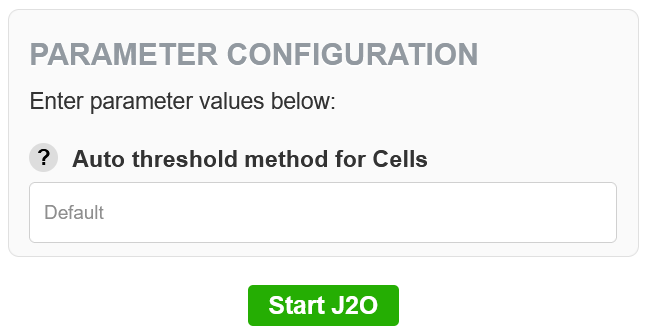
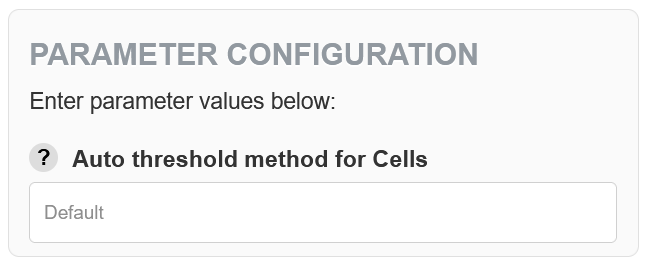
Added separate section for the optional settings of resource control and added GPU acceleration to the documentation. Additionally, the installation guide was updated to reflect the podman requirements.

diff --git a/Writerside/topics/Optional-settings.md b/Writerside/topics/Optional-settings.md
@@ -11,42 +11,20 @@ omero config set omero.web.jipipe.logdir "/path/to/logdir"
 ```
 
 The defined paths don't have to exist yet but will be created by the omero-web user if the permissions exist. Usually changing these should not be necessary. However, if you are experiencing permission errors or want to move the directories for any other reason you can do so. Remember to restart OMERO.web to apply those changes by running:
-```bash
-omero web restart
-```
+
+> Changing these settings requires a restart of OMERO web.
+{style="warning"}
 
 ## Resource management
-A major concern system administrators have when hearing about J2O is that using the database server for processing will eat up resources needed to facilitate the database operation. To prevent that, J2O offers system administrators some optional settings to limit the amount of RAM and CPU cores per workflow execution. Additionally, running the Celery worker with a concurrency flag limits the amount of parallel running tasks. Combined, these options can precisely control the resources that will stay untouched and available for the operation of your database. At a maximum, J2O will consume resources equal to the number of concurrent tasks times the set limits per task.
+A major concern system administrators have when hearing about J2O is that using the database server for processing will eat up resources needed to facilitate the database operation. To prevent that, J2O offers system administrators optional settings to control the resources used per workflow execution. This includes:
 
-### CPU usage
-The CPU usage needs to be limited using the podman options for cpu_period and cpu_quota. Linux system don't support giving the number of CPU cores directly. Instead, the number of available CPUs is the cpu_period divided by the cpu_quota. 
+- [](CPU-usage.md)
+- [](RAM-usage.md)
+- [](Task-concurrency.md)
+- [](GPU-acceleration.md)
 
-#### CPU period
-The CPU period determines the length of the CPU scheduling window in µs. Per default, the scheduling time is set to be 100000 (100ms). If you would like to change that value, use the corresponding OMERO config command. For example, to set the CPU period to 100ms:
 
-```bash
-omero config set omero.web.jipipe.cpu_period 100000
-```
+Combined, these options can precisely control the resources that will stay untouched and available for the operation of your database. At a maximum, J2O will consume resources equal to the number of concurrent tasks times the set limits per task.
 
-#### CPU quota
-The CPU quota determines how much CPU time a process can use in the given CPU period. Per default, this will be set to 200000 (200ms). Together with the default 100ms CPU period, this effectively limits the CPU processing power per task to 2 CPU cores. To change the CPU quota per task, use the corresponding OMERO config command. For example, to set the CPU quota to 200ms:
-
-```bash
-omero config set omero.web.jipipe.cpu_quota 200000
-```
-
-### RAM usage
-Similar to the [CPU usage](#cpu-usage), the RAM usage per task can be limited using the podman option for mem_limit. The default value will be "8g" (8 gigabytes). The option accepts either integer values representing the memory limit in bytes or a string with a unit identification char (100000b, 1000k, 128m, 1g). If you use a string without identification char, the value is interpreted as bytes. To set the mem_limit, use the corresponding OMERO config command. For example, to set the memory limit to 8 gigabytes:
-
-```bash
-omero config set omero.web.jipipe.mem_limit "8g"
-```
-
->Be mindful how much RAM you allocate per task, since the OOM killer will terminate a task that exceeds this limit.
-
-### Task concurrency
-Per default, the Celery task queue will have a maximum of concurrently processed tasks equal to the number of CPU cores. If you want to limit the amount of concurrently running tasks and therefore the used resources, use the -c or --concurrency flag when starting the associated Celery worker. For example, to allow a maximum of 4 concurrently running task:
-
-```bash
-celery -A JIPipePlugin worker --loglevel=info -E --detach -c 4
-```
+> Changing these settings requires a restart of OMERO web and the Celery workers.
+{style="warning"}

diff --git a/Writerside/topics/ManualInstallationGuide.md b/Writerside/topics/ManualInstallationGuide.md
@@ -2,9 +2,10 @@
 
 If you had troubles with the assisted installation or want to have a better overview of what operations are performed, this page will help you.
 
-This plugin assumes that [omero-web](https://github.com/ome/omero-web) has been set up as described in its [documentation](https://omero.readthedocs.io/en/stable/sysadmins/unix/install-web/web-deployment).
+This plugin assumes that OMERO has been **set up for Ubuntu** as described in its [documentation](https://omero.readthedocs.io/en/stable/sysadmins/unix/install-web/web-deployment.html).
 
-> Note that these commands should be run in your [omero-web](https://github.com/ome/omero-web) virtual environment!
+> If not told otherwise, these commands should be run in your [omero-web](https://github.com/ome/omero-web) virtual environment!
+> {style="note"}
 
 ### Step 1 - Clone the repository
 Clone the repository and navigate to the folder:
@@ -29,17 +30,28 @@ Install the required python libraries using the requirements.txt:
 pip install -r requirements.txt
 ```
 
-### Step 4 - Setup podman socket
-If not done before, you will need to activate a user systemd socket for podman to work:
+### Step 4 - Setup podman
+J2O relies on podman to launch containers. Install it and activate a user systemd socket **as the root user**:
 
 ```bash
+apt-get update
+apt-get -y install podman
 systemctl --user enable --now podman.socket
+```
+>GPU acceleration requires podman 4.1 or higher. Ubuntu 22.04 does not provide this. Check the [GPU acceleration section](GPU-acceleration.md) to learn more!
+{style="warning"}
+ 
+If you get errors with podman after the installation, the cause may be that the omero-web user can't run podman. A possible solution is to add the omero-web user to the podman group:
+
+```bash
+sudo usermod -aG podman omero-web
 ```
 
 ### Step 5 - Setup redis as cache backend
 >You may ignore this step if you have redis already setup as your caching backend
+{style="note"}
 
-First, install redis-server and start the service as the root user:
+First, install redis-server and start the service **as the root user**:
 ```bash
 apt-get install -y redis-server
 service redis-server start
@@ -48,20 +60,22 @@ Then, as the omero-web system user, edit the omero cache config to point to your
 ```bash
 omero config set omero.web.caches '{"default": {"BACKEND": "django_redis.cache.RedisCache", "LOCATION": "redis://127.0.0.1:6379/0"}}'
 ```
-⚠ **Be sure your omero setup does not depend on other caching methods** ⚠
+> Be sure your omero setup does not depend on other caching methods
+{style="warning"}
 
 ### Step 6 - Edit OMERO config
 
-Add "J2O" to the list of installed apps using [omero-web](https://github.com/ome/omero-web):
+Add "J2O" to the list of installed apps using:
 ```bash
 omero config append omero.web.apps '"J2O"'
 ```
 
-Add the plugin to the right panel plugins using [omero-web](https://github.com/ome/omero-web):
+Add the plugin to the right panel plugins using:
 ```bash
 omero config append omero.web.ui.right_plugins '["J2O", "J2O/right_plugin_example.js.html", "jipipe_form_container"]'
 ```
-⚠ **Be sure not to add anything twice!** ⚠
+> Be sure not to add anything twice!
+{style="warning"}
 
 ### Step 7 - Start a Celery worker
 Start a celery worker to manage started tasks:
@@ -74,7 +88,8 @@ Should you wish to terminate the workers associated with the plugin, simply run 
 celery -A JIPipePlugin control shutdown
 ```
 
-> If you want to control the resources used by J2O, don't forget to [set the concurrency flag when starting the worker](Optional-settings.md#task-concurrency).
+> If you want to control the resources used by J2O, don't forget to [set the concurrency flag when starting the worker](Task-concurrency.md).
+{style="note"}
 
 ### Step 8 - Restart omero web
 Restart [omero-web](https://github.com/ome/omero-web) for the changes to take effect:

diff --git a/Writerside/topics/GPU-acceleration.md b/Writerside/topics/GPU-acceleration.md
@@ -1,0 +1,74 @@
+# GPU acceleration
+GPU acceleration is only available for servers that fulfill [the prerequisites](#prerequisites). If the server does, system administrators need to follow the [required steps to activate the GPU acceleration](#activation-steps).
+
+## Prerequisites
+To enable GPU acceleration, the server running OMERO must have the following:
+
+- an NVIDIA GPU
+- podman version 4.1 or higher
+
+For podman to recognize the GPU, you also need to follow the steps described in the section below.
+
+>Ubuntu 22.04 does not natively serve the required podman version. 
+> To install it anyway, run the following script **as root**:
+{style="warning"}
+```bash
+#!/bin/sh
+
+ubuntu_version='22.04'
+key_url="https://download.opensuse.org/repositories/devel:/kubic:/libcontainers:/unstable/xUbuntu_${ubuntu_version}/Release.key"
+sources_url="https://download.opensuse.org/repositories/devel:/kubic:/libcontainers:/unstable/xUbuntu_${ubuntu_version}"
+
+echo "deb $sources_url/ /" | tee /etc/apt/sources.list.d/devel:kubic:libcontainers:unstable.list
+curl -fsSL $key_url | gpg --dearmor | tee /etc/apt/trusted.gpg.d/devel_kubic_libcontainers_unstable.gpg > /dev/null
+apt update
+apt install podman
+```
+
+## Activation steps
+
+### Step 1 - Let podman access GPU(s)
+Follow the instructions from the [official podman documentation](https://podman-desktop.io/docs/podman/gpu).
+
+### Step 2 - Configure J2O OMERO settings
+To prevent J2O containers to access random GPU processing power, the plugin provides some OMERO configurations to control GPU access.
+
+#### GPU devices
+System administrators can choose which GPU devices will be available to J2O. Check the generated  CDI file (/etc/cdi/nvidia.yaml) to find the exact name of a device. Device names need to be added to the OMERO config **as a comma-seperated string** using the respective command, for example:
+
+```bash
+omero config set omero.web.jipipe.gpu_devices "nvidia.com/gpu=all"
+```
+
+> If no device is given, no GPU will be accessible!
+{style="warning"}
+
+#### GPU count
+If we just give podman containers a list of GPU devices, GPU access would be random. To enable a scheduler that tracks whether a GPU is already in use for another J2O workflow, system administrators can specify the number of GPUs that are being used. For example, to enable the scheduler for one GPU we use the command:
+
+```bash
+omero config set omero.web.jipipe.gpu_count 1
+```
+
+To disable the scheduler, either don't set the gpu_count or set it to 0.
+
+>When using the scheduler, gpu_count must match the actual 
+> number of GPUs provided to J2O via the gpu_devices. Setting it higher causes 
+> the Redis scheduler to create reservation 
+> slots for non-existent GPU indices, and containers assigned those indices will 
+> have NVIDIA_VISIBLE_DEVICES pointing to GPUs that don't exist — resulting in 
+> silent GPU failures inside the container.
+{style="warning"}
+
+#### GPU reservation timeout
+
+> The reservation timeout only affects GPU reservation for J2O. GPUs will be 
+> accessible by all other processes outside of J2O regardless of the settings 
+> done here!
+{style="note"}
+
+To prevent an indefinite lock on a GPU by the scheduler when a process does not end as intended, system administrators can set the timeout time of a reservation. By default, there is no timeout. To set a timeout, enter the command with an appropriate amount of time in seconds for your setup, for example:
+
+```bash
+omero config set omero.web.jipipe.gpu_lock_time 7200
+```

diff --git a/Writerside/topics/AssistedInstallation.md b/Writerside/topics/AssistedInstallation.md
@@ -2,7 +2,7 @@
 
 To ease the installation process of the plugin, a bash script is provided in the repository. In case of errors, check the [guide for manual installation](ManualInstallationGuide.md).
 
-This plugin assumes that [omero-web](https://github.com/ome/omero-web) has been setup as described in its [documentation](https://omero.readthedocs.io/en/stable/sysadmins/unix/install-web/web-deployment). 
+This plugin assumes that OMERO has been **setup for Ubuntu** as described in its [documentation](https://omero.readthedocs.io/en/stable/sysadmins/unix/install-web/web-deployment). 
 
 ### Step 1 - Clone the repository
 Clone the repository and navigate to the folder:
@@ -11,25 +11,44 @@ git clone https://asb-git.hki-jena.de/MWank/OMERO_JIPipe_Plugin.git
 cd OMERO_JIPipe_Plugin
 ```
 
-### Step 2 - Setup redis as cache backend
->You may ignore this step if you have redis already setup as your caching backend
+### Step 2 - Setup podman
+J2O relies on podman to launch containers. Install it and activate a user systemd socket **as the root user**:
 
-First, install redis-server and start the service:
+```bash
+apt-get update
+apt-get -y install podman
+systemctl --user enable --now podman.socket
+```
+>GPU acceleration requires podman 4.1 or higher. Ubuntu 22.04 does not provide this. Check the [GPU acceleration section](GPU-acceleration.md) to learn more!
+{style="warning"}
+
+If you get errors with podman after the installation, the cause may be that the omero-web user can't run podman. A possible solution is to add the omero-web user to the podman group:
+
+```bash
+sudo usermod -aG podman omero-web
+```
+
+
+### Step 3 - Setup redis as cache backend
+>You may ignore this step if you have redis already setup as your caching backend
+{style="note"}
+
+First, install redis-server and start the service **as the root user**:
 ```bash
 apt-get install -y redis-server
 service redis-server start
 ```
-Then, **as the omero-web user**, edit the omero cache config to point to your redis server location:
+Then, **as the omero-web user**, edit the omero cache config to point to your redis server location.
 
-⚠ **Be sure your omero setup does not depend on other caching methods** ⚠
+> Be sure your omero setup does not depend on other caching methods
+{style="warning"}
 
 ```bash
 omero config set omero.web.caches '{"default": {"BACKEND": "django_redis.cache.RedisCache", "LOCATION": "redis://127.0.0.1:6379/0"}}'
 ```
 
-
-### Step 3 - Install J2O to OMERO
-Run the bash script as root:
+### Step 4 - Install J2O to OMERO
+Run the bash script **as root**:
 ```bash
 bash installJ2O.sh
 ```

diff --git a/Writerside/topics/User-interface.md b/Writerside/topics/User-interface.md
@@ -48,14 +48,19 @@ When checking **Enable output config** in the [file selection](#file-selection),
 ## PARAMETER CONFIGURATION
 This section contains the input fields of the parameters that are defined as reference parameters within the workflow file. Starting with JIPipe 6, nodes with a predefined set of valid options will have a dropdown menu to choose a value from. Other nodes will accept strings, integers or floats as input depending on the node type. When **hovering the ?**, the plugin will display a tooltip with the description of the respective parameter if it was set in the workflow's [project overview](https://jipipe.hki-jena.de/documentation/project-overview.html).
 
-Below this section you will find the **Start J2O** button to execute the selected workflow file with all the changes you made in the webclient.
-
 ![Parameter config section](ParameterConfigSection.png)
 
-## WARNINGS & ERRORS
-To make warnings and errors clearly visible, a yellow warning box above and a red error box below the **Start J2O** button will be displayed if anything is out of order.
+## START J2O
+Below the aforementioned sections, you will find the **Start J2O** button to execute the selected workflow file with all the changes you made in the webclient.
 
-![Warnings and Errors](Warnings&Errors.png){width="700"}
+To make warnings and errors clearly visible, a yellow warning box above and a red error box below the button will be displayed if anything is out of order.
+
+![Warnings and Errors](StartButtonSection.png){width="700"}
+
+If [setup by your system administrator](GPU-acceleration.md), you can check the GPU acceleration to utilize GPUs for processing your workflow.
+
+> Only enable GPU acceleration if your workflow needs it. Each workflow that is assigned a GPU will reserve it for the remainder of the workflow execution.
+{style="note"}
 
 ## LOG WINDOW
 Below the start button, you will find the log window. The window will livestream the JIPipe logfile of the most recently started workflow execution. This can be used to check on the progress of the execution or to debug problems within the workflow.

diff --git a/Writerside/topics/CPU-usage.md b/Writerside/topics/CPU-usage.md
@@ -1,0 +1,20 @@
+# CPU usage
+
+The CPU usage needs to be limited using the podman options for cpu_period and cpu_quota. Linux system don't support giving the number of CPU cores directly. Instead, the number of available CPUs is the cpu_period divided by the cpu_quota.
+
+> Changing these settings requires a restart of OMERO web and the Celery workers.
+{style="warning"}
+
+## CPU period
+The CPU period determines the length of the CPU scheduling window in µs. Per default, the scheduling time is set to be 100000 (100ms). If you would like to change that value, use the corresponding OMERO config command. For example, to set the CPU period to 100ms:
+
+```bash
+omero config set omero.web.jipipe.cpu_period 100000
+```
+
+## CPU quota
+The CPU quota determines how much CPU time a process can use in the given CPU period. Per default, this will be set to 200000 (200ms). Together with the default 100ms CPU period, this effectively limits the CPU processing power per task to 2 CPU cores. To change the CPU quota per task, use the corresponding OMERO config command. For example, to set the CPU quota to 200ms:
+
+```bash
+omero config set omero.web.jipipe.cpu_quota 200000
+```

diff --git a/Writerside/topics/Frequently-asked-questions.md b/Writerside/topics/Frequently-asked-questions.md
@@ -5,3 +5,7 @@ This section will be used to answer the most common questions about J2O. We will
 ## Won't heavy image processing eat up all my server's resources?
 
 A major concern system administrators have with J2O is that running image processing on the OMERO server will destabilize the database operation. This is a valid concern and for that the plugin offers settings that let you control precisely the amount of RAM and CPU cores that will be used per workflow execution. Additionally, there are options for the Celery task queue that lets you limit the amount of parallel processed workflows. Combined, this lets you set a maximum resource use of the plugin, reserving the rest for database operations. For more details, check the [resource management section](Optional-settings.md#resource-management).
+
+## Can I process my data using GPU(s)?
+
+Yes! As long as your server has at least one NVIDIA GPU, system administrators can activate GPU acceleration by following the steps [in the respective section of the optional settings](GPU-acceleration.md).

diff --git a/Writerside/topics/RAM-usage.md b/Writerside/topics/RAM-usage.md
@@ -1,0 +1,15 @@
+# RAM usage
+
+Similar to the [CPU usage](CPU-usage.md), the RAM usage per task can be limited using the podman option for mem_limit. The default value will be "8g" (8 gigabytes). The option accepts either integer values representing the memory limit in bytes or a string with a unit identification char (100000b, 1000k, 128m, 1g). If you use a string without identification char, the value is interpreted as bytes. To set the mem_limit, use the corresponding OMERO config command. 
+
+> Changing this setting requires a restart of OMERO web and the Celery workers.
+{style="warning"}
+
+For example, to set the memory limit to 8 gigabytes:
+
+```bash
+omero config set omero.web.jipipe.mem_limit "8g"
+```
+
+>Be mindful how much RAM you allocate per task, since the OOM killer will terminate a task that exceeds this limit.
+{style="warning"}

diff --git a/Writerside/topics/Task-concurrency.md b/Writerside/topics/Task-concurrency.md
@@ -1,0 +1,8 @@
+# Task concurrency
+Per default, the Celery task queue will have a maximum of concurrently processed tasks equal to the number of CPU cores. If you want to limit the amount of concurrently running tasks and therefore the used resources, use the -c or --concurrency flag when starting the associated Celery worker. For example, to allow a maximum of 4 concurrently running task:
+
+```bash
+celery -A JIPipePlugin worker --loglevel=info -E --detach -c 4
+```
+> Remember to kill outdated worker processes!
+{style="warning"}

diff --git a/Writerside/topics/Troubleshooting.md b/Writerside/topics/Troubleshooting.md
@@ -3,6 +3,7 @@
 This page covers common issues that can arise during installation or usage of J2O.
 
 > If you can't find your issue here, feel free to contact us or open an issue in the [community](https://image.sc).
+{style="tip"}
 
 ## Error starting JIPipe task
 
